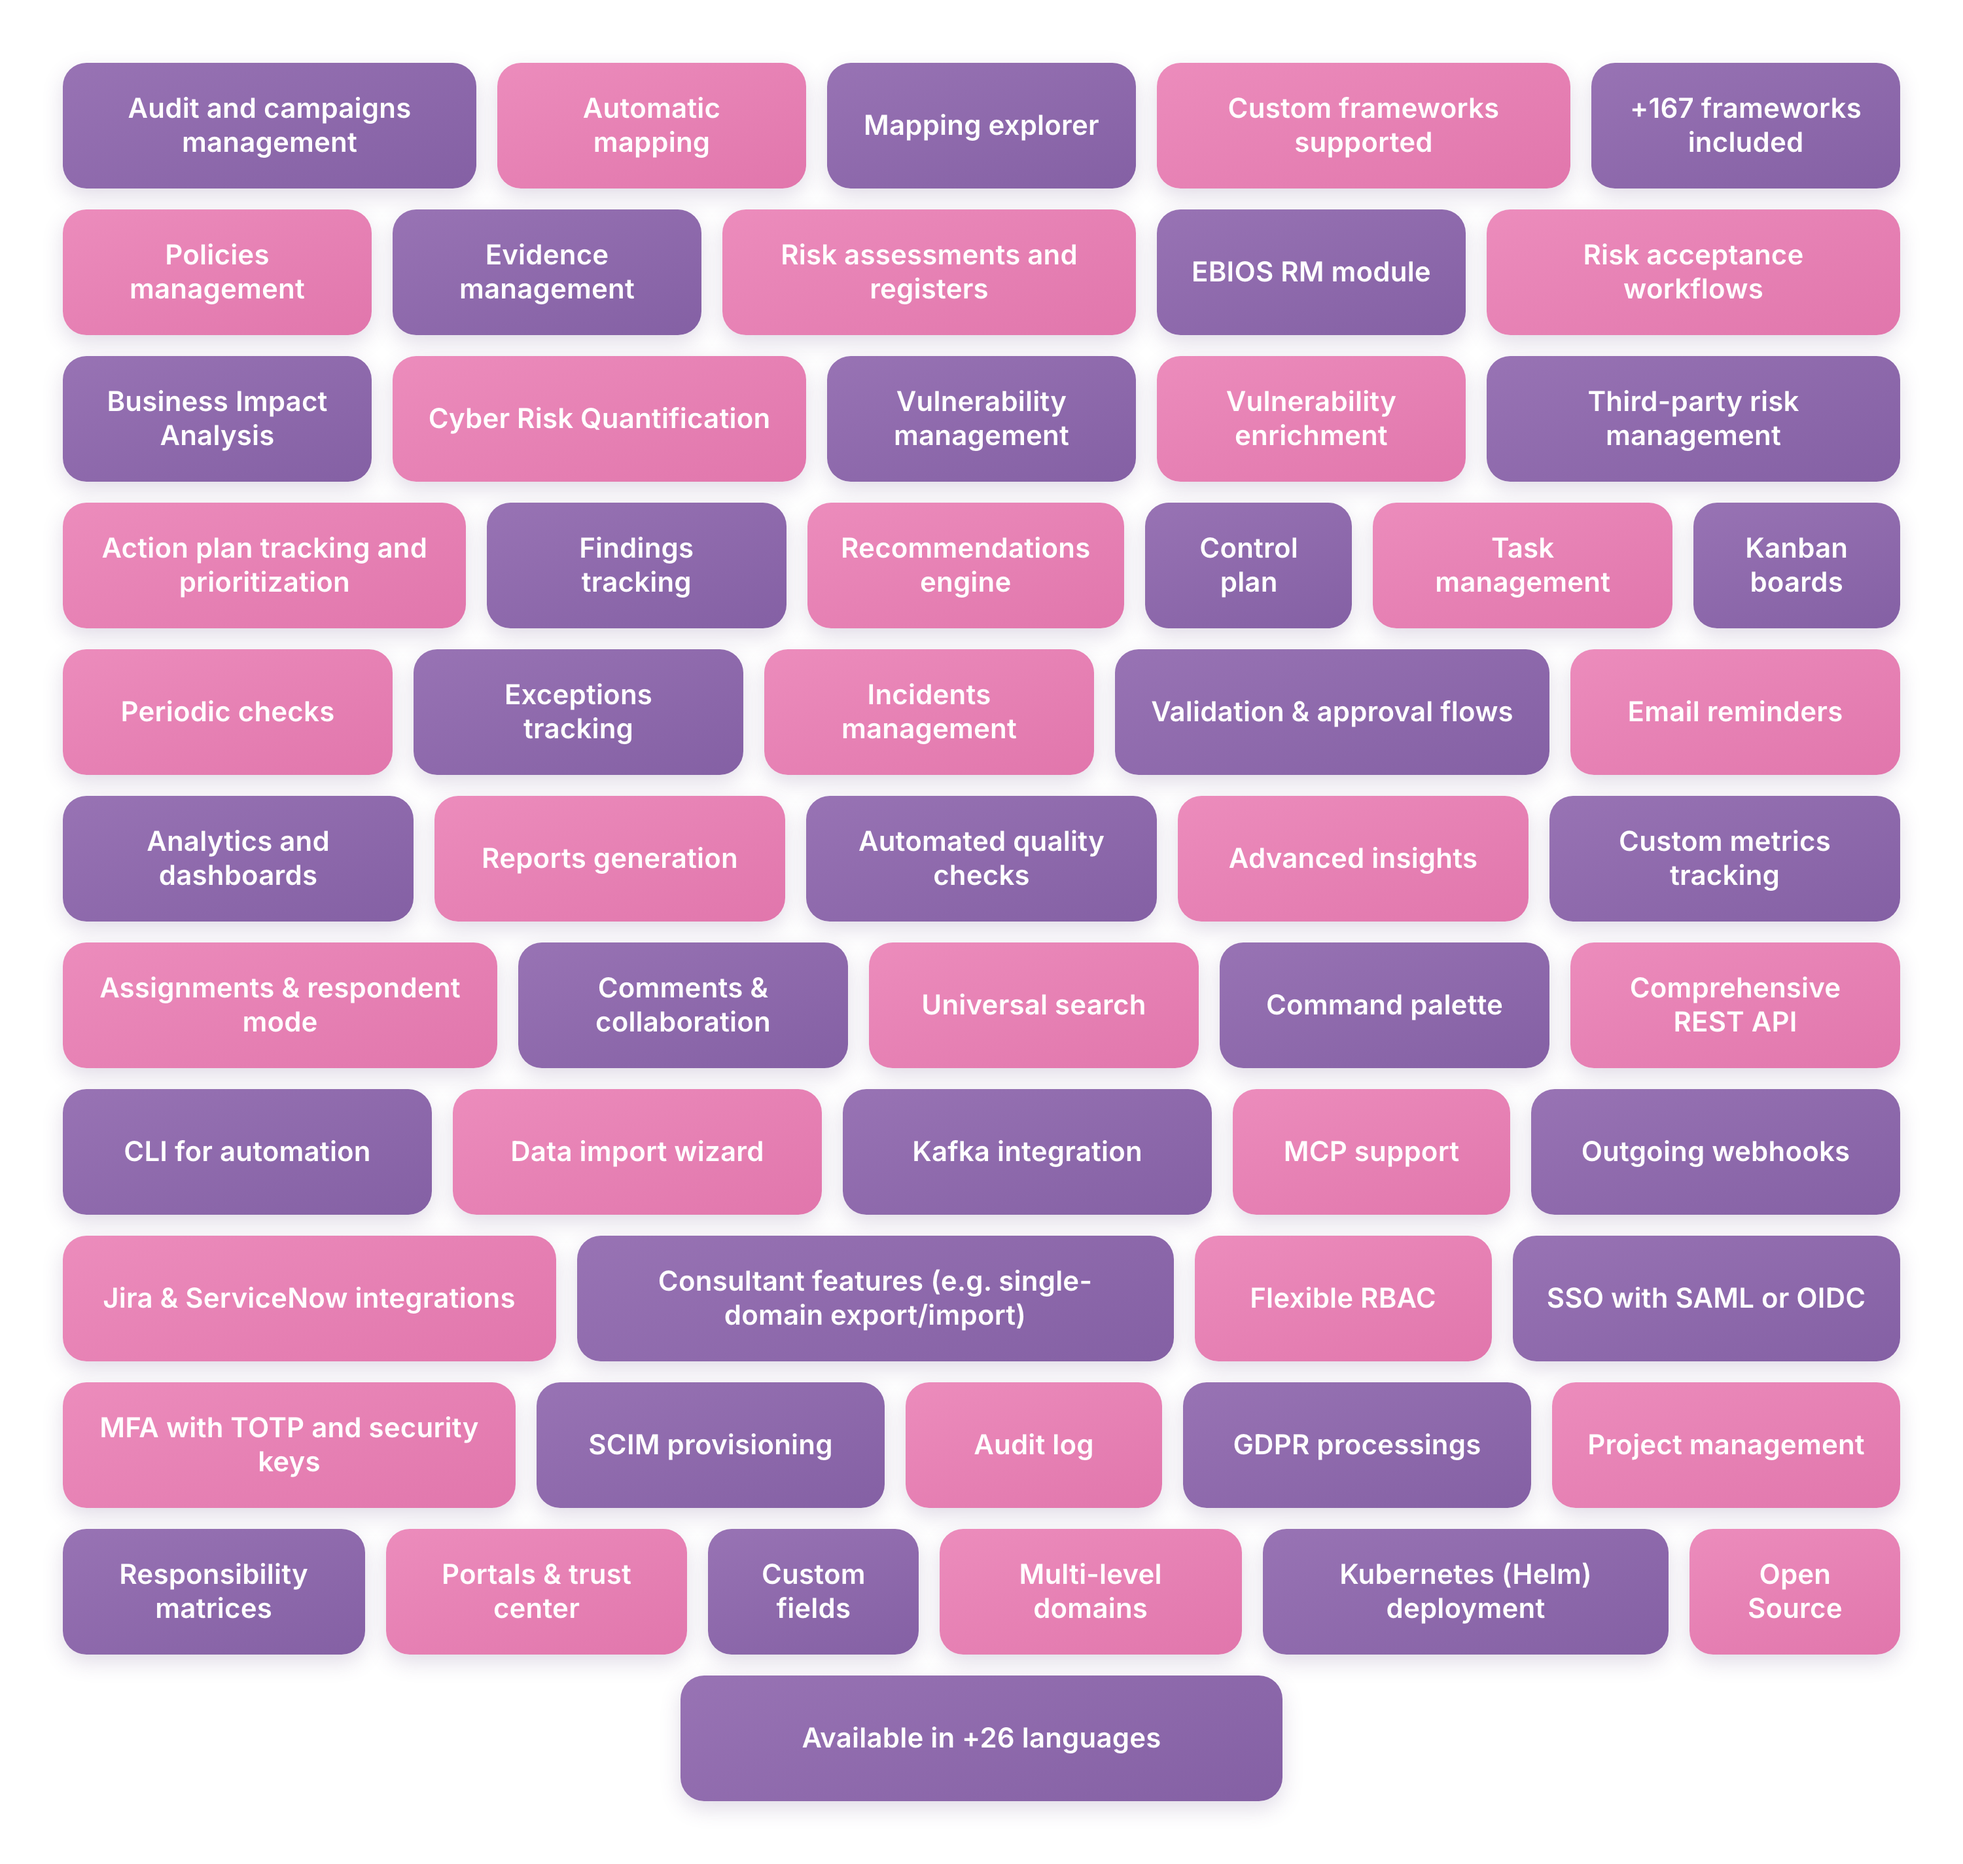
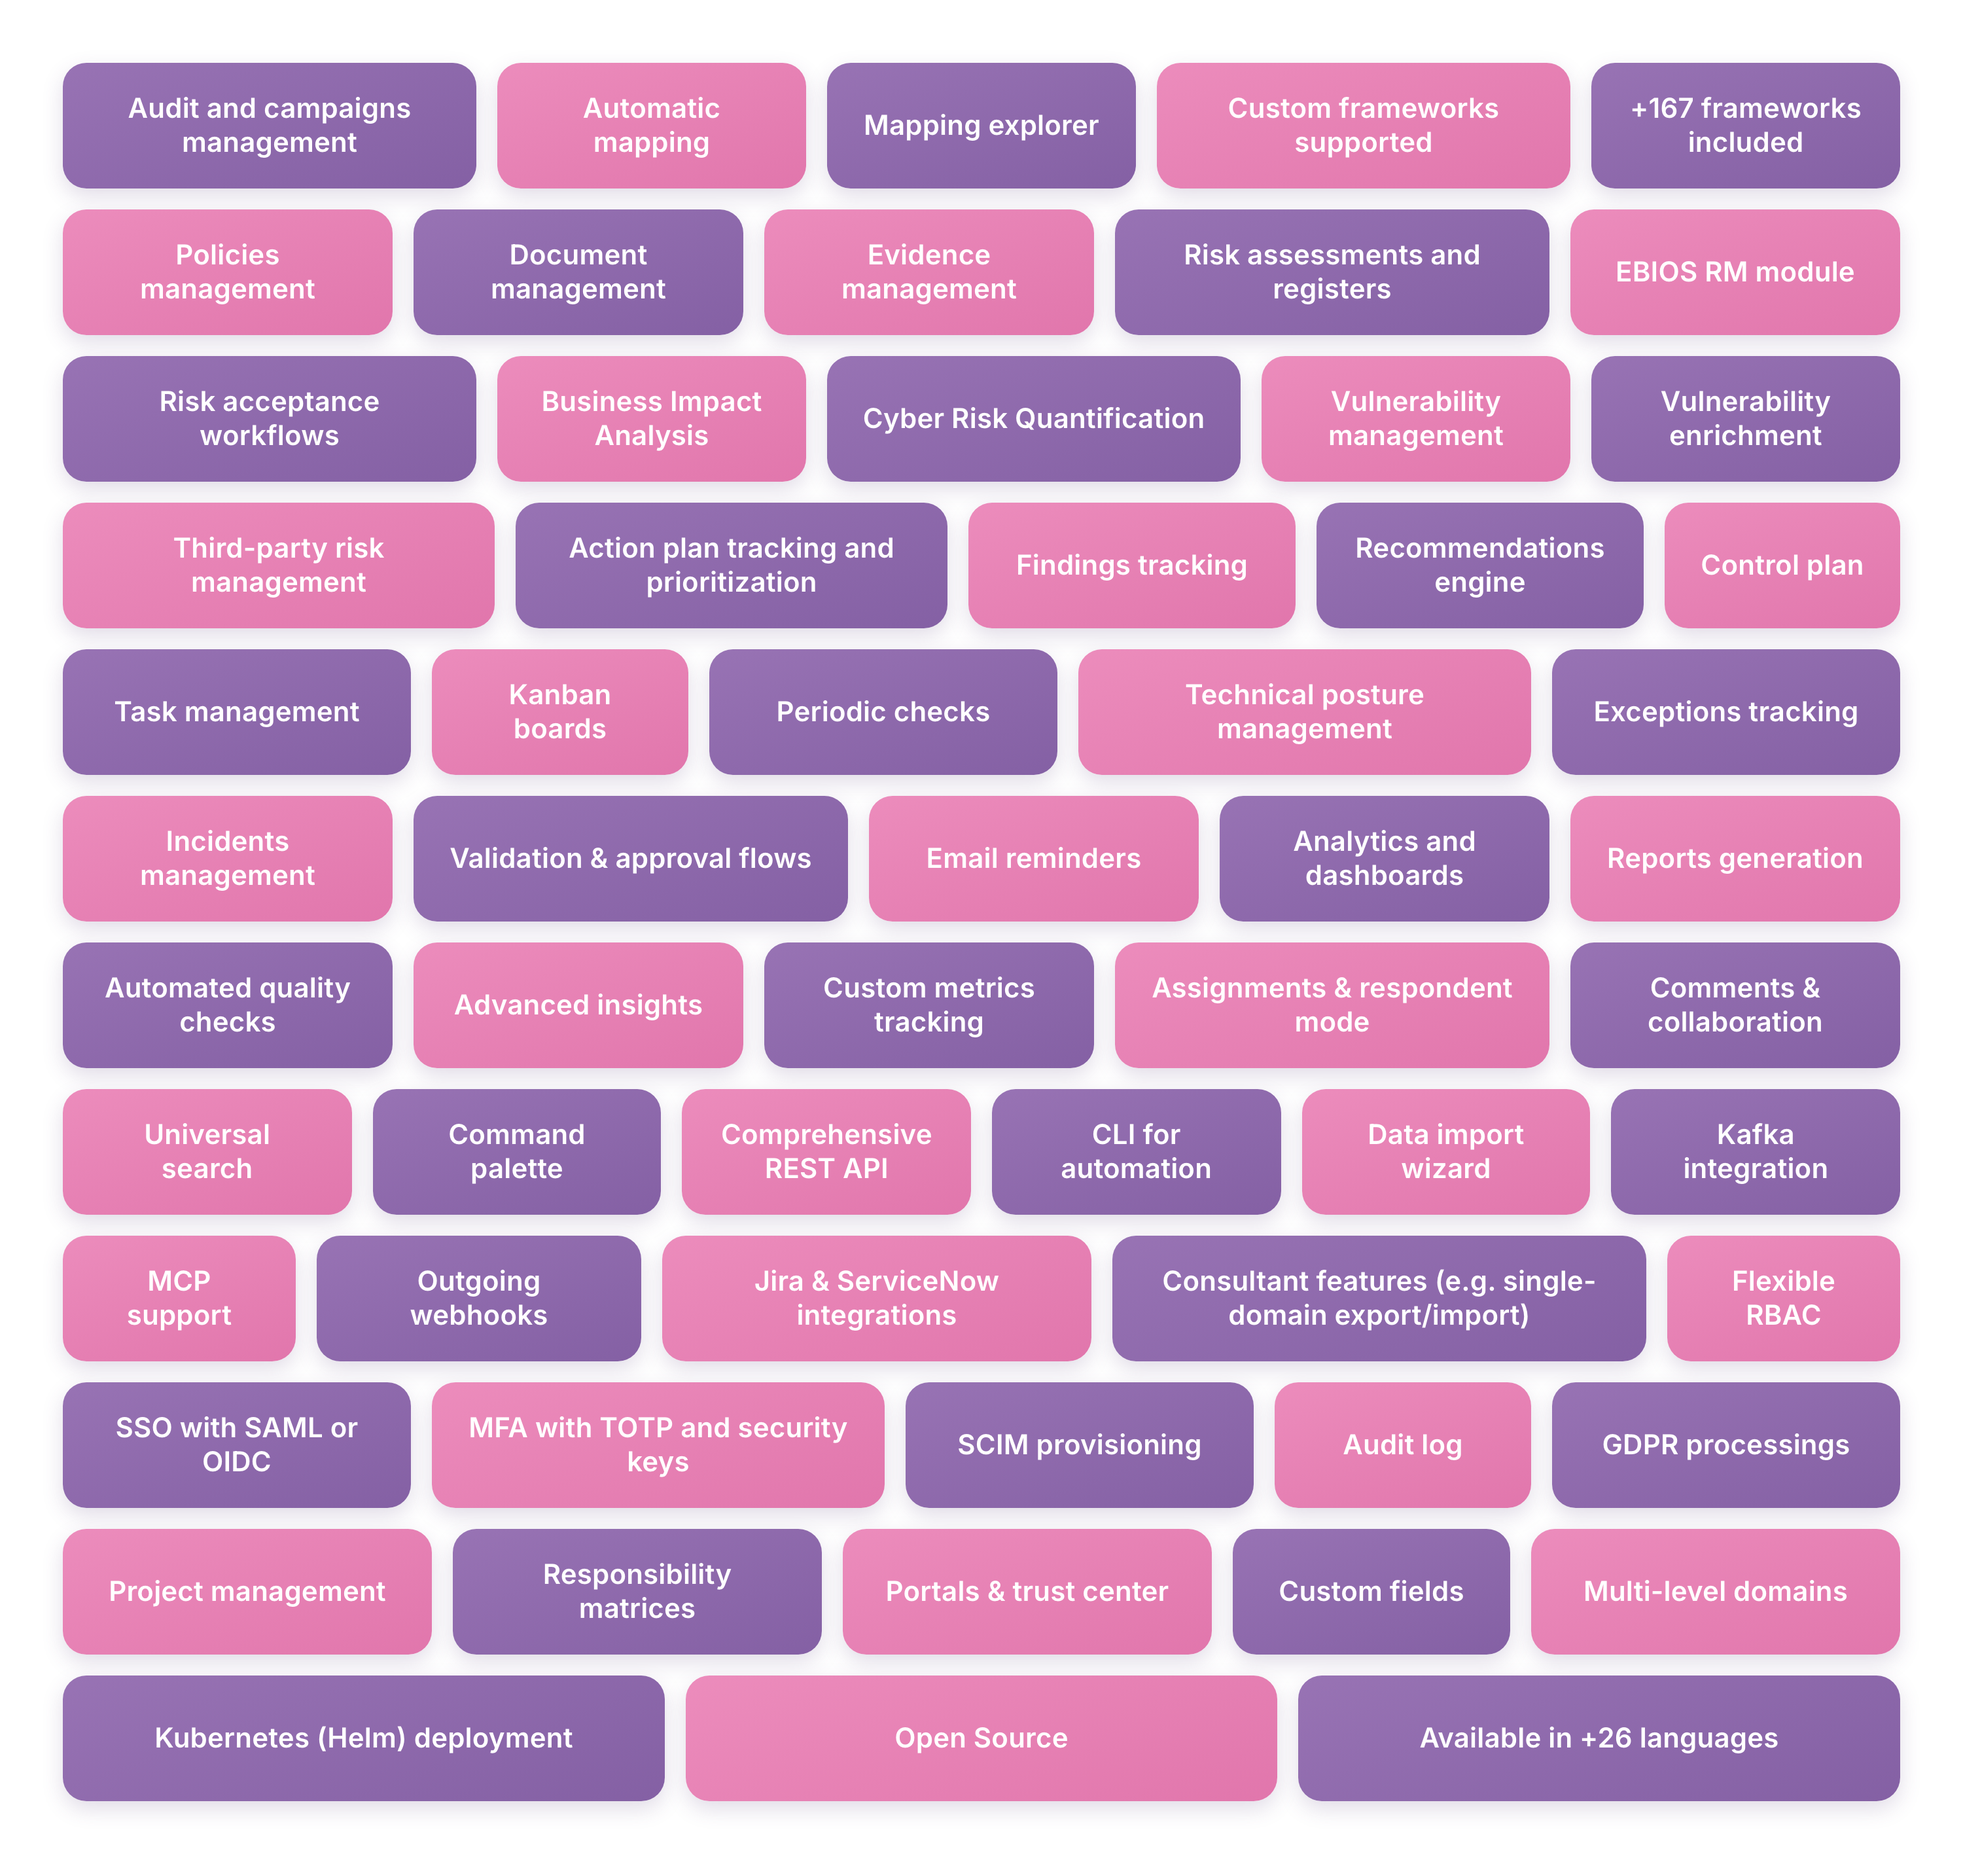
update readme

diff --git a/README.md b/README.md
@@ -103,7 +103,7 @@ The docker compose file can be adjusted to pass extra parameters to suit your se
 
 <!-- FEATURES:START -->
 <details>
-<summary><strong>📋 Full feature list</strong> — click to expand (searchable, 57 features)</summary>
+<summary><strong>📋 Full feature list</strong> — click to expand (searchable, 59 features)</summary>
 
 **Compliance & frameworks**
 - Audit and campaigns management
@@ -112,6 +112,7 @@ The docker compose file can be adjusted to pass extra parameters to suit your se
 - Custom frameworks supported
 - +167 frameworks included
 - Policies management
+- Document management
 - Evidence management
 
 **Risk management**
@@ -134,6 +135,7 @@ The docker compose file can be adjusted to pass extra parameters to suit your se
 - Task management
 - Kanban boards
 - Periodic checks
+- Technical posture management
 - Exceptions tracking
 - Incidents management
 - Validation & approval flows
